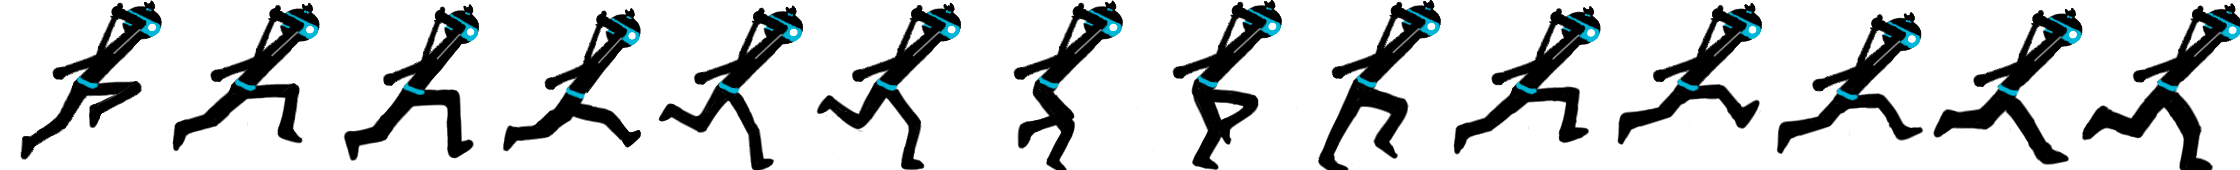
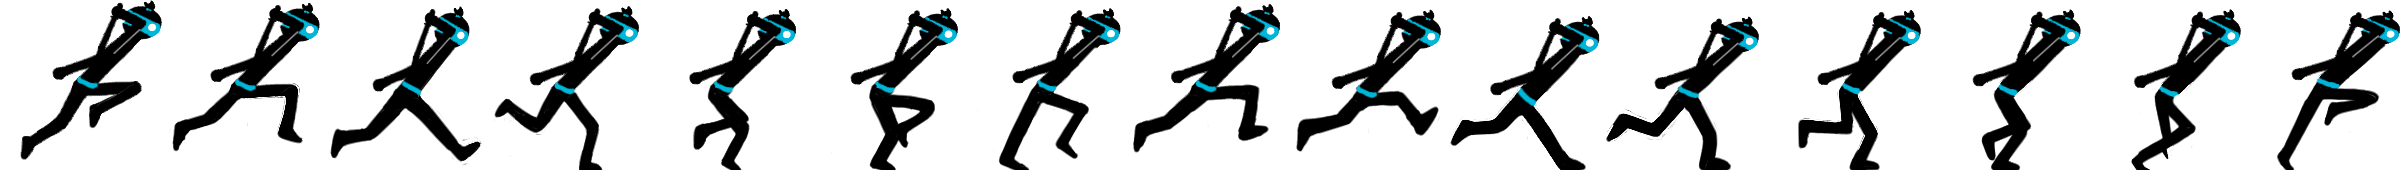
Finish the player's running animation

diff --git a/FlappyDemo/core/src/com/yinghanxu/game/States/PlayState.java b/FlappyDemo/core/src/com/yinghanxu/game/States/PlayState.java
@@ -39,6 +39,7 @@ public class PlayState extends State{
     private float groundLength = 0;
     private boolean gameover;
     private Texture gameoverImg;
+    private int playerFrameNum = 15;
 
     Vector3 birdPosition;
 
@@ -148,7 +149,7 @@ public class PlayState extends State{
                 }
                 switch (rand.nextInt(3)) {
                     case 0:
-                        break;
+
                     case 1:
                         //Make sure the new ally is not relocated in a short ground
                         if (nextGround.getLength() > 500) {
@@ -214,7 +215,7 @@ public class PlayState extends State{
 //            bird.run();
 //        }
 
-        float birdPositionX = bird.getPosition().x + (bird.getTexture().getRegionWidth()/14);
+        float birdPositionX = bird.getPosition().x + (bird.getTexture().getRegionWidth()/playerFrameNum);
         //Making sure the player would not fall down on the specific ground by setting the player's height
 //        for (Ground ground : grounds) {
 //            if (birdPositionX > ground.getPosition().x) {
@@ -232,21 +233,21 @@ public class PlayState extends State{
             bird.setGroundHeight(ground2.getHeight());
             currentGroundNum = 2;
         }
-        if (bird.getPosition().x + (bird.getTexture().getRegionWidth()/14) > ground3.getPosition().x) {
+        if (bird.getPosition().x + (bird.getTexture().getRegionWidth()/playerFrameNum) > ground3.getPosition().x) {
             bird.setGroundHeight(ground3.getHeight());
             currentGroundNum = 3;
         }
-        if (bird.getPosition().x + (bird.getTexture().getRegionWidth()/14) > ground4.getPosition().x) {
+        if (bird.getPosition().x + (bird.getTexture().getRegionWidth()/playerFrameNum) > ground4.getPosition().x) {
             bird.setGroundHeight(ground4.getHeight());
             currentGroundNum = 4;
         }
-        if (bird.getPosition().x + (bird.getTexture().getRegionWidth()/14) > ground5.getPosition().x) {
+        if (bird.getPosition().x + (bird.getTexture().getRegionWidth()/playerFrameNum) > ground5.getPosition().x) {
             bird.setGroundHeight(ground5.getHeight());
             currentGroundNum = 5;
         }
 
         //If the player has pass the current ground, we create the new ground (by computing the whole ground length which includes the ground's gap)
-        if (bird.getPosition().x + (bird.getTexture().getRegionWidth()/14) > ground1.getPosition().x + ground1.getLength()) {
+        if (bird.getPosition().x + (bird.getTexture().getRegionWidth()/playerFrameNum) > ground1.getPosition().x + ground1.getLength()) {
             System.out.println("=========  create new ground1  ============");
             System.out.println("cam = " + (cam.position.x - (cam.viewportWidth / 2)));
             System.out.println("bird = " + bird.getPosition().x);
@@ -258,12 +259,12 @@ public class PlayState extends State{
             bird.setGroundHeight(0);
             System.out.println("new length of ground1 = " + ground1.getLength());
         }
-        if (bird.getPosition().x - (bird.getTexture().getRegionWidth()/14) > ground1.getPosition().x + ground1.getLength()) {
+        if (bird.getPosition().x - (bird.getTexture().getRegionWidth()/playerFrameNum) > ground1.getPosition().x + ground1.getLength()) {
             ground1.setPosition(ground5.getPosition().x - ground1.getPosition().x + ground5.getLength() + ground5.getGroundGap(), 0, 0);
             ground1.reposition();
         }
 
-        if (bird.getPosition().x + (bird.getTexture().getRegionWidth()/14) > ground2.getPosition().x + ground2.getLength()) {
+        if (bird.getPosition().x + (bird.getTexture().getRegionWidth()/playerFrameNum) > ground2.getPosition().x + ground2.getLength()) {
             System.out.println("=========  create new ground2  ============");
             if (bird.getPosition().y < ground1.getHeight()) {
                 gameover = true;
@@ -276,12 +277,12 @@ public class PlayState extends State{
             //    groundPos2.add(ground2.getWidth() * 2, 0);
             //}
         }
-        if (bird.getPosition().x - (bird.getTexture().getRegionWidth()/14) > ground2.getPosition().x + ground2.getLength()) {
+        if (bird.getPosition().x - (bird.getTexture().getRegionWidth()/playerFrameNum) > ground2.getPosition().x + ground2.getLength()) {
             ground2.setPosition(ground1.getPosition().x - ground2.getPosition().x + ground1.getLength() + ground1.getGroundGap(), 0, 0);
             ground2.reposition();
         }
 
-        if (bird.getPosition().x + (bird.getTexture().getRegionWidth()/14) > ground3.getPosition().x + ground3.getLength()) {
+        if (bird.getPosition().x + (bird.getTexture().getRegionWidth()/playerFrameNum) > ground3.getPosition().x + ground3.getLength()) {
             System.out.println("=========  create new ground3  ============");
             if (bird.getPosition().y < ground1.getHeight()) {
                 gameover = true;
@@ -291,12 +292,12 @@ public class PlayState extends State{
             bird.setGroundHeight(0);
             System.out.println("new length of ground1 = " + ground3.getLength());
         }
-        if (bird.getPosition().x - (bird.getTexture().getRegionWidth()/14) > ground3.getPosition().x + ground3.getLength()) {
+        if (bird.getPosition().x - (bird.getTexture().getRegionWidth()/playerFrameNum) > ground3.getPosition().x + ground3.getLength()) {
             ground3.setPosition(ground2.getPosition().x - ground3.getPosition().x + ground2.getLength() + ground2.getGroundGap(), 0, 0);
             ground3.reposition();
         }
 
-        if (bird.getPosition().x + (bird.getTexture().getRegionWidth()/14) > ground4.getPosition().x + ground4.getLength()) {
+        if (bird.getPosition().x + (bird.getTexture().getRegionWidth()/playerFrameNum) > ground4.getPosition().x + ground4.getLength()) {
             System.out.println("=========  create new ground4  ============");
             if (bird.getPosition().y < ground1.getHeight()) {
                 gameover = true;
@@ -306,12 +307,12 @@ public class PlayState extends State{
             bird.setGroundHeight(0);
             System.out.println("new length of ground4 = " + ground4.getLength());
         }
-        if (bird.getPosition().x - (bird.getTexture().getRegionWidth()/14) > ground4.getPosition().x + ground4.getLength()) {
+        if (bird.getPosition().x - (bird.getTexture().getRegionWidth()/playerFrameNum) > ground4.getPosition().x + ground4.getLength()) {
             ground4.setPosition(ground3.getPosition().x - ground4.getPosition().x + ground3.getLength() + ground3.getGroundGap(), 0, 0);
             ground4.reposition();
         }
 
-        if (bird.getPosition().x + (bird.getTexture().getRegionWidth()/14) > ground5.getPosition().x + ground5.getLength()) {
+        if (bird.getPosition().x + (bird.getTexture().getRegionWidth()/playerFrameNum) > ground5.getPosition().x + ground5.getLength()) {
             System.out.println("=========  create new ground5  ============");
             if (bird.getPosition().y < ground1.getHeight()) {
                 gameover = true;
@@ -321,7 +322,7 @@ public class PlayState extends State{
             bird.setGroundHeight(0);
             System.out.println("new length of ground1 = " + ground5.getLength());
         }
-        if (bird.getPosition().x - (bird.getTexture().getRegionWidth()/14) > ground5.getPosition().x + ground5.getLength()) {
+        if (bird.getPosition().x - (bird.getTexture().getRegionWidth()/playerFrameNum) > ground5.getPosition().x + ground5.getLength()) {
             ground5.setPosition(ground4.getPosition().x - ground5.getPosition().x + ground4.getLength() + ground4.getGroundGap(), 0, 0);
             ground5.reposition();
         }

diff --git a/FlappyDemo/core/src/com/yinghanxu/game/sprites/Bird.java b/FlappyDemo/core/src/com/yinghanxu/game/sprites/Bird.java
@@ -57,10 +57,10 @@ public class Bird {
         velocity = new Vector3(0, 0, 0);
         //bird = new Texture("bird.png");
         texture = new Texture("player.png");
-        birdAnimationRun = new Animation(new TextureRegion(texture), 14, 0.5f);
-        birdAnimationJump = new Animation(new TextureRegion(texture), 14, 0.1f);
-        birdAnimationCollide = new Animation(new TextureRegion(texture), 14, 0.1f);
-        bounds = new Rectangle(x, y, texture.getWidth() / 14 , texture.getHeight());
+        birdAnimationRun = new Animation(new TextureRegion(texture), 15, 0.8f);
+        birdAnimationJump = new Animation(new TextureRegion(texture), 15, 0.1f);
+        birdAnimationCollide = new Animation(new TextureRegion(texture), 15, 0.1f);
+        bounds = new Rectangle(x, y, texture.getWidth() / 15 , texture.getHeight());
         flap = Gdx.audio.newSound(Gdx.files.internal("sfx_wing.ogg"));
         colliding = false;
     }
@@ -108,7 +108,7 @@ public class Bird {
         flap.play();    //set the 0.5 volumme
         velocity.y = 1000;
         status = 2;
-        birdAnimationJump = new Animation(new TextureRegion(texture), 14, 0.1f);
+        birdAnimationJump = new Animation(new TextureRegion(texture), 15, 0.1f);
         //velocity.x = 20; //we can change the x axes so the bird would fly ahead
     }
 
